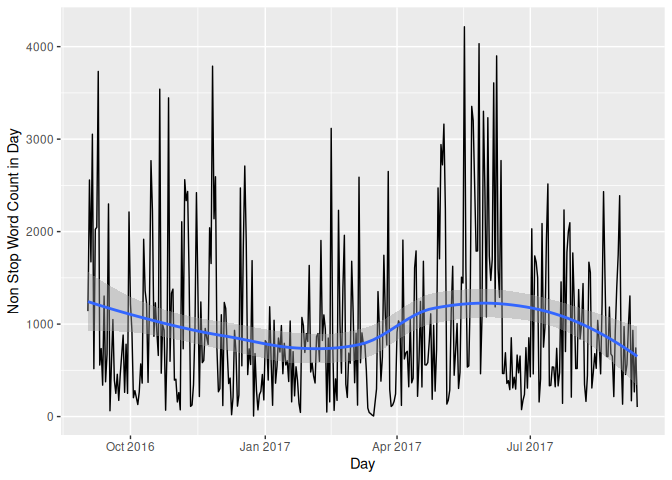
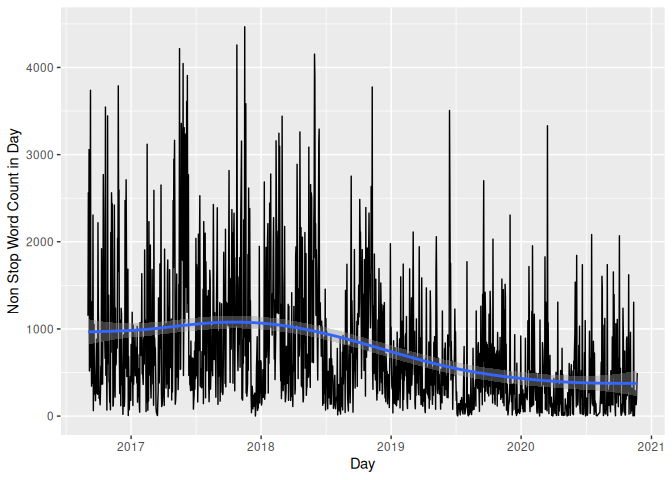
Update with new data and adjust some graphs to cope with more data

diff --git a/README.md b/README.md
@@ -30,12 +30,12 @@ chat logs in a json format.
 library(jsonlite)
 
 # regular read of direct JSON file
-#chat_json <- read_json('./discord_chat_json_dce.json')$messages
+#chat_json <- read_json('./discord_chat_anonymized.json')$messages
 
 # in memory gunzip, highly recomended to compress large JSON logs
 # read_json(...) == fromJson(..., simplifyVector = FALSE)
 # but handles more than just a string filepath such as connections (R file objects)
-log_gzipped <- gzfile('./discord_chat_json_dce.json.gz', open = 'rb') # fromJSON needs binary
+log_gzipped <- gzfile('./discord_chat_anonymized.json.gz', open = 'rb') # fromJSON needs binary
 chat_json <- fromJSON(log_gzipped, simplifyVector = FALSE)$messages
 close(log_gzipped)
 
@@ -53,7 +53,7 @@ str(chat_json[[1]])
     ##  $ content           : chr "tovarish"
     ##  $ author            :List of 5
     ##   ..$ id           : chr "162781767122550784"
-    ##   ..$ name         : chr "Focu5"
+    ##   ..$ name         : chr "Benjamin"
     ##   ..$ discriminator: chr "8767"
     ##   ..$ isBot        : logi FALSE
     ##   ..$ avatarUrl    : chr "https://cdn.discordapp.com/avatars/162781767122550784/292f7eff05847dbae524ca6bf22b19bf.png"
@@ -97,7 +97,7 @@ glimpse(chat)
     ## Rows: 686,310
     ## Columns: 3
     ## $ timestamp <dttm> 2016-09-02 20:22:36, 2016-09-02 20:22:38, 2016-09-02 20:28…
-    ## $ username  <fct> Focu5, Focu5, naknak, naknak, Focu5, Focu5, Focu5, Focu5, F…
+    ## $ username  <fct> Benjamin, Benjamin, Wallace, Wallace, Benjamin, Benjamin, B…
     ## $ message   <chr> "tovarish", "really", "yeah", "so lets use this from now on…
 
 ``` r
@@ -145,7 +145,7 @@ glimpse(words)
     ## Rows: 1,158,391
     ## Columns: 3
     ## $ timestamp <dttm> 2016-09-02 20:22:36, 2016-09-02 20:28:12, 2016-09-02 20:35…
-    ## $ username  <fct> Focu5, naknak, Focu5, Focu5, Focu5, Focu5, Focu5, Focu5, Fo…
+    ## $ username  <fct> Benjamin, Wallace, Benjamin, Benjamin, Benjamin, Benjamin, …
     ## $ word      <chr> "tovarish", "yeah", "lol", "skype", "wont", "reacive", "ins…
 
 ### Bigram Tokenization
@@ -170,7 +170,7 @@ glimpse(bigrams)
     ## Rows: 574,336
     ## Columns: 4
     ## $ timestamp <dttm> 2016-09-02 20:22:36, 2016-09-02 20:22:38, 2016-09-02 20:28…
-    ## $ username  <fct> Focu5, Focu5, naknak, Focu5, Focu5, Focu5, Focu5, Focu5, Fo…
+    ## $ username  <fct> Benjamin, Benjamin, Wallace, Benjamin, Benjamin, Benjamin, …
     ## $ word1     <chr> NA, NA, NA, NA, "wont", "reacive", "instant", NA, NA, NA, N…
     ## $ word2     <chr> NA, NA, NA, NA, "reacive", "instant", "messages", NA, NA, N…
 
@@ -188,35 +188,35 @@ word_counts <- words %>%
 word_counts[, head(.SD, 3), username]
 ```
 
-    ##       username       word     N
-    ##  1:      Focu5        lol 10669
-    ##  2:      Focu5       yeah  5038
-    ##  3:      Focu5         im  4222
-    ##  4:       Caje        lol  5032
-    ##  5:       Caje       yeah  2295
-    ##  6:       Caje        yea   803
-    ##  7:     naknak      boris  4800
-    ##  8:     naknak         im  4795
-    ##  9:     naknak        lol  3556
-    ## 10: Esherymack        lol  1465
-    ## 11: Esherymack      boris  1254
-    ## 12: Esherymack       yeah   889
-    ## 13:    MathBot          1   213
-    ## 14:    MathBot          2   196
-    ## 15:    MathBot          3    63
-    ## 16:  freer-bot          1   147
-    ## 17:  freer-bot unexpected    69
-    ## 18:  freer-bot  expecting    69
-    ## 19:   Aistaldo       yeah   114
-    ## 20:   Aistaldo      boris    52
-    ## 21:   Aistaldo       caje    50
-    ## 22:   CaitMate       it’s    70
-    ## 23:   CaitMate        i’m    68
-    ## 24:   CaitMate   aistaldo    43
-    ## 25:       dark      books     8
-    ## 26:       dark         cs     5
-    ## 27:       dark       math     4
-    ##       username       word     N
+    ##      username       word     N
+    ##  1:  Benjamin        lol 10669
+    ##  2:  Benjamin       yeah  5038
+    ##  3:  Benjamin         im  4222
+    ##  4:   Michael        lol  5032
+    ##  5:   Michael       yeah  2295
+    ##  6:   Michael        yea   803
+    ##  7:   Wallace      boris  4800
+    ##  8:   Wallace         im  4795
+    ##  9:   Wallace        lol  3556
+    ## 10:     Molly        lol  1465
+    ## 11:     Molly      boris  1254
+    ## 12:     Molly       yeah   889
+    ## 13:   MathBot          1   213
+    ## 14:   MathBot          2   196
+    ## 15:   MathBot          3    63
+    ## 16: freer-bot          1   147
+    ## 17: freer-bot unexpected    69
+    ## 18: freer-bot  expecting    69
+    ## 19:     Peter       yeah   114
+    ## 20:     Peter      boris    52
+    ## 21:     Peter       caje    50
+    ## 22:      Kate       it’s    70
+    ## 23:      Kate        i’m    68
+    ## 24:      Kate   aistaldo    43
+    ## 25:     Darth      books     8
+    ## 26:     Darth         cs     5
+    ## 27:     Darth       math     4
+    ##      username       word     N
 
 How about visually?
 
@@ -386,17 +386,17 @@ copy(words)[, time := floor_date(timestamp, '4 hours')] %>%
 ```
 
     ##                 timestamp username    word                time hours_chunk
-    ##    1: 2016-11-06 01:36:45    Focu5 samsung 2016-11-06 01:00:00           1
-    ##    2: 2016-11-06 01:36:45    Focu5      85 2016-11-06 01:00:00           1
-    ##    3: 2016-11-06 01:36:45    Focu5 percent 2016-11-06 01:00:00           1
-    ##    4: 2016-11-06 01:36:45    Focu5    note 2016-11-06 01:00:00           1
-    ##    5: 2016-11-06 01:36:45    Focu5      7s 2016-11-06 01:00:00           1
+    ##    1: 2016-11-06 01:36:45 Benjamin samsung 2016-11-06 01:00:00           1
+    ##    2: 2016-11-06 01:36:45 Benjamin      85 2016-11-06 01:00:00           1
+    ##    3: 2016-11-06 01:36:45 Benjamin percent 2016-11-06 01:00:00           1
+    ##    4: 2016-11-06 01:36:45 Benjamin    note 2016-11-06 01:00:00           1
+    ##    5: 2016-11-06 01:36:45 Benjamin      7s 2016-11-06 01:00:00           1
     ##   ---                                                                     
-    ## 1063: 2020-11-01 02:36:46    Focu5      ツ 2020-11-01 01:00:00           1
-    ## 1064: 2020-11-01 02:36:57    Focu5    live 2020-11-01 01:00:00           1
-    ## 1065: 2020-11-01 02:36:57    Focu5 villain 2020-11-01 01:00:00           1
-    ## 1066: 2020-11-01 02:37:09    Focu5   anger 2020-11-01 01:00:00           1
-    ## 1067: 2020-11-01 02:37:09    Focu5 quelled 2020-11-01 01:00:00           1
+    ## 1063: 2020-11-01 02:36:46 Benjamin      ツ 2020-11-01 01:00:00           1
+    ## 1064: 2020-11-01 02:36:57 Benjamin    live 2020-11-01 01:00:00           1
+    ## 1065: 2020-11-01 02:36:57 Benjamin villain 2020-11-01 01:00:00           1
+    ## 1066: 2020-11-01 02:37:09 Benjamin   anger 2020-11-01 01:00:00           1
+    ## 1067: 2020-11-01 02:37:09 Benjamin quelled 2020-11-01 01:00:00           1
 
 ``` r
 unique(tz(chat[, timestamp]))
@@ -435,7 +435,7 @@ glimpse(words_by_hour_per_user)
     ## Rows: 14,351
     ## Columns: 4
     ## $ timestamp              <dttm> 2016-09-02 20:00:00, 2016-09-02 20:00:00, 201…
-    ## $ username               <fct> Focu5, naknak, Focu5, naknak, naknak, Focu5, n…
+    ## $ username               <fct> Benjamin, Wallace, Benjamin, Wallace, Wallace,…
     ## $ words_in_hour_per_user <int> 935, 216, 511, 348, 555, 498, 44, 340, 94, 10,…
     ## $ hours_chunk            <int> 20, 20, 0, 0, 4, 4, 8, 8, 8, 12, 16, 16, 20, 2…
 
@@ -477,35 +477,35 @@ head(bigram_counts, 5)
 bigram_counts_per_user[, head(.SD, 3), username]
 ```
 
-    ##       username      word1     word2   N
-    ##  1:     naknak       holy      shit 647
-    ##  2:     naknak         im     gonna 243
-    ##  3:     naknak          1         2 178
-    ##  4:      Focu5      makes     sense 283
-    ##  5:      Focu5       copy     paste 196
-    ##  6:      Focu5          2         3 175
-    ##  7:       Caje       yeah       idk  65
-    ##  8:       Caje     visual    studio  52
-    ##  9:       Caje      gonna      head  51
-    ## 10: Esherymack    morning     boris  56
-    ## 11: Esherymack        bap       bap  48
-    ## 12: Esherymack          0         0  35
-    ## 13:    MathBot    wolfram     alpha  43
-    ## 14:    MathBot  rendering    failed  35
-    ## 15:    MathBot     failed     check  35
-    ## 16:  freer-bot unexpected expecting  41
-    ## 17:  freer-bot      white     space  38
-    ## 18:  freer-bot  expecting      ping  24
-    ## 19:   Aistaldo         11        10   6
-    ## 20:   Aistaldo       heck      yeah   4
-    ## 21:   Aistaldo      feels       bad   4
-    ## 22:   CaitMate     garlic     toast   4
-    ## 23:   CaitMate     garlic     bread   4
-    ## 24:   CaitMate      green     giant   4
-    ## 25:       dark       math     major   2
-    ## 26:       dark       drop    school   2
-    ## 27:       dark         ez        cs   1
-    ##       username      word1     word2   N
+    ##      username      word1     word2   N
+    ##  1:   Wallace       holy      shit 647
+    ##  2:   Wallace         im     gonna 243
+    ##  3:   Wallace          1         2 178
+    ##  4:  Benjamin      makes     sense 283
+    ##  5:  Benjamin       copy     paste 196
+    ##  6:  Benjamin          2         3 175
+    ##  7:   Michael       yeah       idk  65
+    ##  8:   Michael     visual    studio  52
+    ##  9:   Michael      gonna      head  51
+    ## 10:     Molly    morning     boris  56
+    ## 11:     Molly        bap       bap  48
+    ## 12:     Molly          0         0  35
+    ## 13:   MathBot    wolfram     alpha  43
+    ## 14:   MathBot  rendering    failed  35
+    ## 15:   MathBot     failed     check  35
+    ## 16: freer-bot unexpected expecting  41
+    ## 17: freer-bot      white     space  38
+    ## 18: freer-bot  expecting      ping  24
+    ## 19:     Peter         11        10   6
+    ## 20:     Peter       heck      yeah   4
+    ## 21:     Peter      feels       bad   4
+    ## 22:      Kate     garlic     toast   4
+    ## 23:      Kate     garlic     bread   4
+    ## 24:      Kate      green     giant   4
+    ## 25:     Darth       math     major   2
+    ## 26:     Darth       drop    school   2
+    ## 27:     Darth         ez        cs   1
+    ##      username      word1     word2   N
 
 ### Characteristic Words
 
@@ -532,25 +532,25 @@ word_tf_idf <- word_counts %>%
 word_tf_idf[, head(.SD, 2), username]
 ```
 
-    ##       username                 word    N           tf       idf      tf_idf
-    ##  1:     naknak                         1 2.344309e-06        NA          NA
-    ##  2:     naknak                 dont 3530 8.275409e-03 0.5877867 0.004864175
-    ##  3:  freer-bot            expecting   69 8.603491e-02 0.5877867 0.050570174
-    ##  4:  freer-bot           unexpected   69 8.603491e-02 0.4054651 0.034884155
-    ##  5:       dark                  kys    4 1.923077e-02 1.0986123 0.021127159
-    ##  6:       dark                 econ    4 1.923077e-02 0.8109302 0.015594812
-    ##  7:    MathBot www.wolframalpha.com   19 9.134615e-03 2.1972246 0.020070801
-    ##  8:    MathBot                alpha   44 2.115385e-02 0.5877867 0.012433949
-    ##  9:   CaitMate                 it’s   70 2.121212e-02 0.8109302 0.017201550
-    ## 10:   CaitMate                  i’m   68 2.060606e-02 0.8109302 0.016710077
-    ## 11:      Focu5                   ツ 3207 6.308795e-03 0.8109302 0.005115992
-    ## 12:      Focu5                 dont 4091 8.047795e-03 0.5877867 0.004730387
-    ## 13:   Aistaldo                 sael   36 6.159110e-03 0.8109302 0.004994609
-    ## 14:   Aistaldo                 yeah  114 1.950385e-02 0.2513144 0.004901599
-    ## 15:       Caje                shizz  617 4.439424e-03 1.0986123 0.004877206
-    ## 16:       Caje                  yea  803 5.777727e-03 0.8109302 0.004685333
-    ## 17: Esherymack                  cos  361 4.995088e-03 0.8109302 0.004050668
-    ## 18: Esherymack                 yeah  889 1.230092e-02 0.2513144 0.003091399
+    ##      username                 word    N           tf       idf      tf_idf
+    ##  1:   Wallace                         1 2.344309e-06        NA          NA
+    ##  2:   Wallace                 dont 3530 8.275409e-03 0.5877867 0.004864175
+    ##  3: freer-bot            expecting   69 8.603491e-02 0.5877867 0.050570174
+    ##  4: freer-bot           unexpected   69 8.603491e-02 0.4054651 0.034884155
+    ##  5:     Darth                  kys    4 1.923077e-02 1.0986123 0.021127159
+    ##  6:     Darth                 econ    4 1.923077e-02 0.8109302 0.015594812
+    ##  7:   MathBot www.wolframalpha.com   19 9.134615e-03 2.1972246 0.020070801
+    ##  8:   MathBot                alpha   44 2.115385e-02 0.5877867 0.012433949
+    ##  9:      Kate                 it’s   70 2.121212e-02 0.8109302 0.017201550
+    ## 10:      Kate                  i’m   68 2.060606e-02 0.8109302 0.016710077
+    ## 11:  Benjamin                   ツ 3207 6.308795e-03 0.8109302 0.005115992
+    ## 12:  Benjamin                 dont 4091 8.047795e-03 0.5877867 0.004730387
+    ## 13:     Peter                 sael   36 6.159110e-03 0.8109302 0.004994609
+    ## 14:     Peter                 yeah  114 1.950385e-02 0.2513144 0.004901599
+    ## 15:   Michael                shizz  617 4.439424e-03 1.0986123 0.004877206
+    ## 16:   Michael                  yea  803 5.777727e-03 0.8109302 0.004685333
+    ## 17:     Molly                  cos  361 4.995088e-03 0.8109302 0.004050668
+    ## 18:     Molly                 yeah  889 1.230092e-02 0.2513144 0.003091399
 
 ``` r
 # order within factors is wack but is correct as top tf-idf per user
@@ -598,9 +598,9 @@ bigram_counts %>%
 ![](README_files/figure-gfm/analysis_relationship_bigram-1.png)<!-- -->
 
 ``` r
-set.seed(88)
+set.seed(23)
 bigram_counts_per_user %>%
-    .[, head(.SD, 4), username] %>%
+    .[, head(.SD, 3), username] %>%
     .[, .(word1, word2, username, N)] %T>%
     glimpse() %>%
     graph_from_data_frame() %T>%
@@ -614,26 +614,27 @@ bigram_counts_per_user %>%
     geom_node_point(color = 'lightblue', size = 2) +
     geom_node_text(aes(label = name), vjust = 1, hjust = 1) +
     facet_edges(~username) +
-    labs(title = 'Most Frequent Bigrams by User as Edges')
+    labs(title = 'Most Frequent Bigrams by User as Edges') +
+    coord_cartesian(xlim = c(16,29), expand = TRUE)
 ```
 
-    ## Rows: 36
+    ## Rows: 27
     ## Columns: 4
-    ## $ word1    <chr> "holy", "im", "1", "2", "makes", "copy", "2", "lol", "yeah",…
-    ## $ word2    <chr> "shit", "gonna", "2", "3", "sense", "paste", "3", "wat", "id…
-    ## $ username <fct> naknak, naknak, naknak, naknak, Focu5, Focu5, Focu5, Focu5, …
-    ## $ N        <int> 647, 243, 178, 168, 283, 196, 175, 172, 65, 52, 51, 49, 56, …
-    ## IGRAPH 7548556 DN-- 56 36 -- 
+    ## $ word1    <chr> "holy", "im", "1", "makes", "copy", "2", "yeah", "visual", "…
+    ## $ word2    <chr> "shit", "gonna", "2", "sense", "paste", "3", "idk", "studio"…
+    ## $ username <fct> Wallace, Wallace, Wallace, Benjamin, Benjamin, Benjamin, Mic…
+    ## $ N        <int> 647, 243, 178, 283, 196, 175, 65, 52, 51, 56, 48, 35, 43, 35…
+    ## IGRAPH 28abaf6 DN-- 46 27 -- 
     ## + attr: name (v/c), username (e/c), N (e/n)
-    ## + edges from 7548556 (vertex names):
+    ## + edges from 28abaf6 (vertex names):
     ##  [1] holy      ->shit      im        ->gonna     1         ->2        
-    ##  [4] 2         ->3         makes     ->sense     copy      ->paste    
-    ##  [7] 2         ->3         lol       ->wat       yeah      ->idk      
-    ## [10] visual    ->studio    gonna     ->head      makes     ->sense    
-    ## [13] morning   ->boris     bap       ->bap       0         ->0        
-    ## [16] 1         ->2         wolfram   ->alpha     rendering ->failed   
-    ## [19] failed    ->check     existing  ->message   unexpected->expecting
-    ## [22] white     ->space     expecting ->ping      expecting ->white    
+    ##  [4] makes     ->sense     copy      ->paste     2         ->3        
+    ##  [7] yeah      ->idk       visual    ->studio    gonna     ->head     
+    ## [10] morning   ->boris     bap       ->bap       0         ->0        
+    ## [13] wolfram   ->alpha     rendering ->failed    failed    ->check    
+    ## [16] unexpected->expecting white     ->space     expecting ->ping     
+    ## [19] 11        ->10        heck      ->yeah      feels     ->bad      
+    ## [22] garlic    ->toast     garlic    ->bread     green     ->giant    
     ## + ... omitted several edges
 
-![](README_files/figure-gfm/analysis_relationship_bigram-2.png)<!-- -->
+![](README_files/figure-gfm/analysis_relationship_bigram_per_user_as_edges-1.png)<!-- -->
